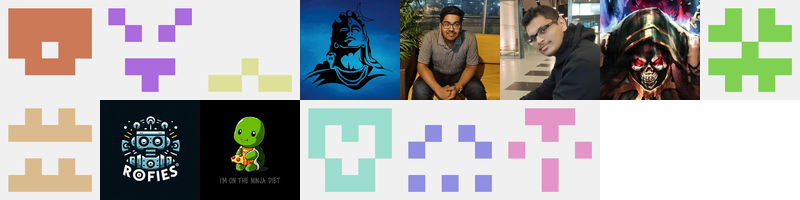
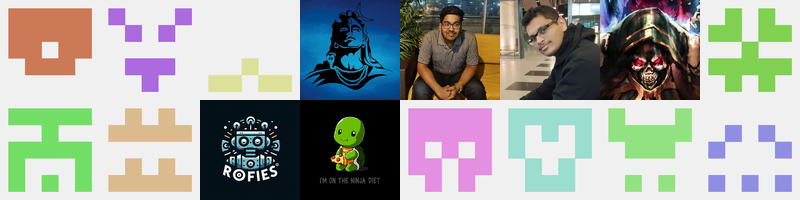
Adding Invitation Script

diff --git a/get-people/invite-people.py b/get-people/invite-people.py
@@ -1,0 +1,66 @@
+import os
+import csv
+import time
+import requests
+from colorama import Fore
+
+# Function to get current members of the GitHub organization
+def get_org_members(org_name, token):
+    url = f"https://api.github.com/orgs/{org_name}/members"
+    headers = {
+        "Authorization": f"token {token}",
+        "Accept": "application/vnd.github.v3+json"
+    }
+    response = requests.get(url, headers=headers)
+    if response.status_code == 200:
+        members = response.json()
+        return [member['login'] for member in members]
+    else:
+        print(Fore.RED + f"\nFailed to get members: {response.json()}" + Fore.RESET)
+        return []
+
+# Function to invite users to GitHub organization
+def invite_to_github(org_name, token, emails):
+    url = f"https://api.github.com/orgs/{org_name}/invitations"
+    headers = {
+        "Authorization": f"token {token}",
+        "Accept": "application/vnd.github.v3+json"
+    }
+    for email in emails:
+        data = {"email": email}
+        response = requests.post(url, headers=headers, json=data)
+        if response.status_code == 201:
+            print(Fore.GREEN + "\nSuccessfully invited " + Fore.MAGENTA + f"{email}\n" + Fore.RESET)
+        elif response.status_code == 422:
+            print(Fore.MAGENTA + f"\n{email}" + Fore.YELLOW + " is already a member of the organization." + Fore.RESET)
+        else:
+            print(Fore.RED + f"\nFailed to invite {email}: {response.json()}" + Fore.RESET)
+
+# Main function
+def main():
+    org_name = "ROFIES-IIITP"
+    token = os.getenv("GITHUB_TOKEN")
+    if not token:
+        raise ValueError("GITHUB_TOKEN is not set in environment variables")
+
+    # Path to the CSV file
+    csv_file_path = '../Contact Information ROFIES - Form Responses 1.csv'
+
+    # Read emails from CSV file
+    emails = []
+    with open(csv_file_path, newline='') as csvfile:
+        reader = csv.DictReader(csvfile)
+        for row in reader:
+            emails.append(row['Email linked to your GitHub Account'])  # Use the correct column name
+
+    # Get current members of the GitHub organization
+    current_members = get_org_members(org_name, token)
+
+    # Invite users to GitHub organization if they are not already members
+    emails_to_invite = [email for email in emails if email not in current_members]
+    invite_to_github(org_name, token, emails_to_invite)
+    
+    input(Fore.LIGHTCYAN_EX + "\nPress Enter to exit..." + Fore.RESET)
+
+if __name__ == "__main__":
+    main()

diff --git a/get-people/fetch_avatar.py b/get-people/fetch_avatar.py
@@ -1,10 +1,10 @@
 import requests
 import os
+from PIL import Image
+from io import BytesIO
 
 # GitHub organization name
 org_name = "ROFIES-IIITP"
-
-# GitHub API endpoint to fetch members
 api_url = f"https://api.github.com/orgs/{org_name}/members"
 
 # GitHub Personal Access Token (PAT) for authentication
@@ -37,3 +37,31 @@ if response.status_code == 200:
 else:
     print(f"Failed to fetch members. Status code: {response.status_code}")
     print(response.text)
+    exit(1)
+
+# Create a composite image of avatars
+IMAGE_WIDTH = 800
+IMAGE_HEIGHT = 200
+AVATAR_SIZE = 100
+
+# Create a blank image
+image = Image.new('RGB', (IMAGE_WIDTH, IMAGE_HEIGHT), (255, 255, 255))
+
+# Paste avatars onto the image
+x_offset = 0
+y_offset = 0
+for avatar_url in avatar_urls:
+    avatar_response = requests.get(avatar_url)
+    avatar = Image.open(BytesIO(avatar_response.content))
+    avatar = avatar.resize((AVATAR_SIZE, AVATAR_SIZE), Image.LANCZOS)
+    image.paste(avatar, (x_offset, y_offset))
+    x_offset += AVATAR_SIZE
+    if x_offset >= IMAGE_WIDTH:
+        x_offset = 0
+        y_offset += AVATAR_SIZE
+    if y_offset >= IMAGE_HEIGHT:
+        break  # Stop if the image height limit is reached
+
+# Save the image
+image.save("members.png")
+print("Composite image of avatars saved as members.png.")
